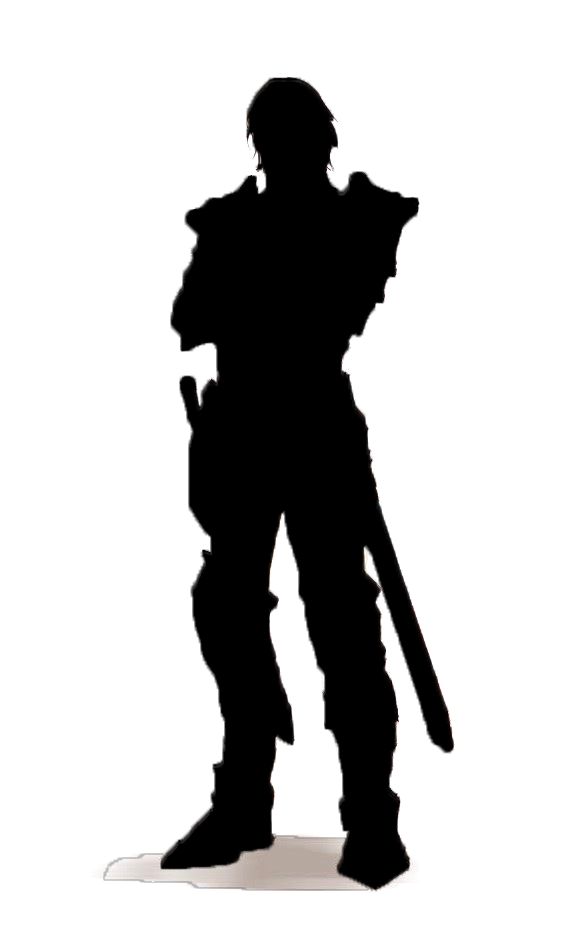
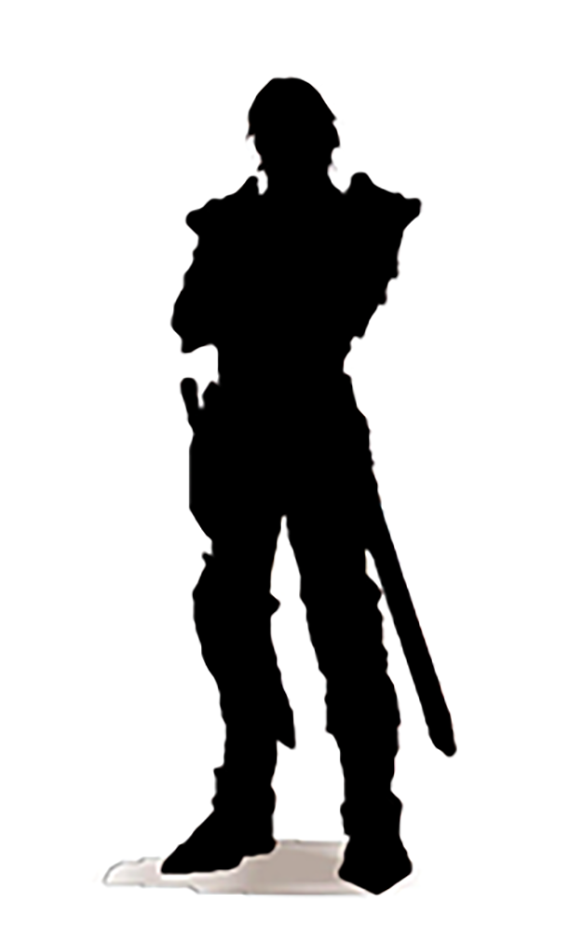
added background and image
I added a old looking paper background and a character image on the display page

diff --git a/css/style.css b/css/style.css
@@ -7,6 +7,15 @@
  Yellow = #FBDF1C
  Blue = #1D5F91
 */
+html{
+    background-image: url("../assets/Old_Paper.jpg");
+    background-position: center;
+    background-repeat: no-repeat;
+    background-attachment: fixed;
+    background-size: auto; 
+    width: 100%
+}
+
 #error{
     color: red;
 }
@@ -32,7 +41,6 @@
 .Content .col{
     display: flex;
     flex: 1;
-    min-width: 100%;
     max-width: 100%;
     flex-direction: column;
     flex-wrap: wrap;
@@ -66,6 +74,7 @@ h2{
     border-radius: 20px;
     margin: 15px;
     padding: 10px;
+    background-color: #fff;
 }
 
 #nameBox{
@@ -74,12 +83,24 @@ h2{
     padding: 5px;
 }
 
+#Background{
+    z-index: -1;
+    background-image: url(../assets/Old-Paper.png);
+}
+
+#placer{
+    width: 196px;
+    height: 350px;
+    min-width: 2%;
+    margin: 0px 5%;
+}
+#ct{
+    margin: 0px;
+}
+
 .textCenter{
     text-align: center;
 }
-
-
-
 
 .align-left{
     text-align: left;

diff --git a/html/display.html b/html/display.html
@@ -8,20 +8,15 @@
     <link href="../css/style.css" rel="stylesheet">
 </head>
 <body>
-
-    <!-- <aside id="character">
-
-    </aside> -->
-
-
-
 <div id="all" class="Content align-center">
     
+    <div id="img&traits" class="row">
 
+    <img id="placer" src="../assets/placer.png" alt="Character Image" class="statBox col">
     
-    
-    <div id="displayTraits">
-        <h2>Character Traits</h2>
+
+    <div id="displayTraits" class="col">
+        <h2 id="ct" class="align-center">Character Traits</h2>
         <div id="nameBox" class="statBox">
                 <h3>Character Name</h3>
                 <p>Wranydark</p>
@@ -46,6 +41,9 @@
             </div>
         </section>
     </div>
+
+    </div>
+
 
     <div id="displayStats">
         <h2>Character Stats</h2>
